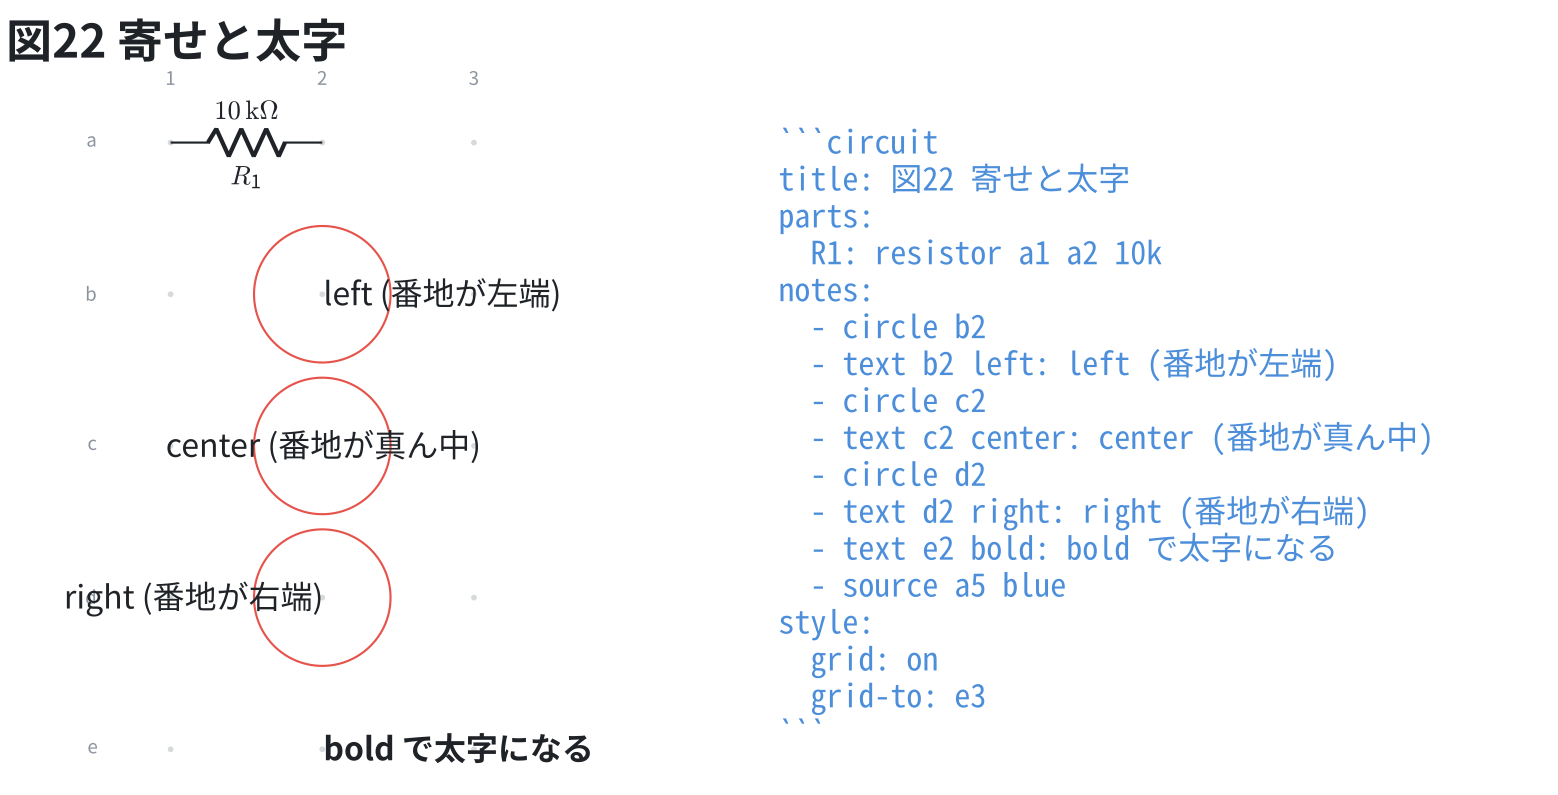
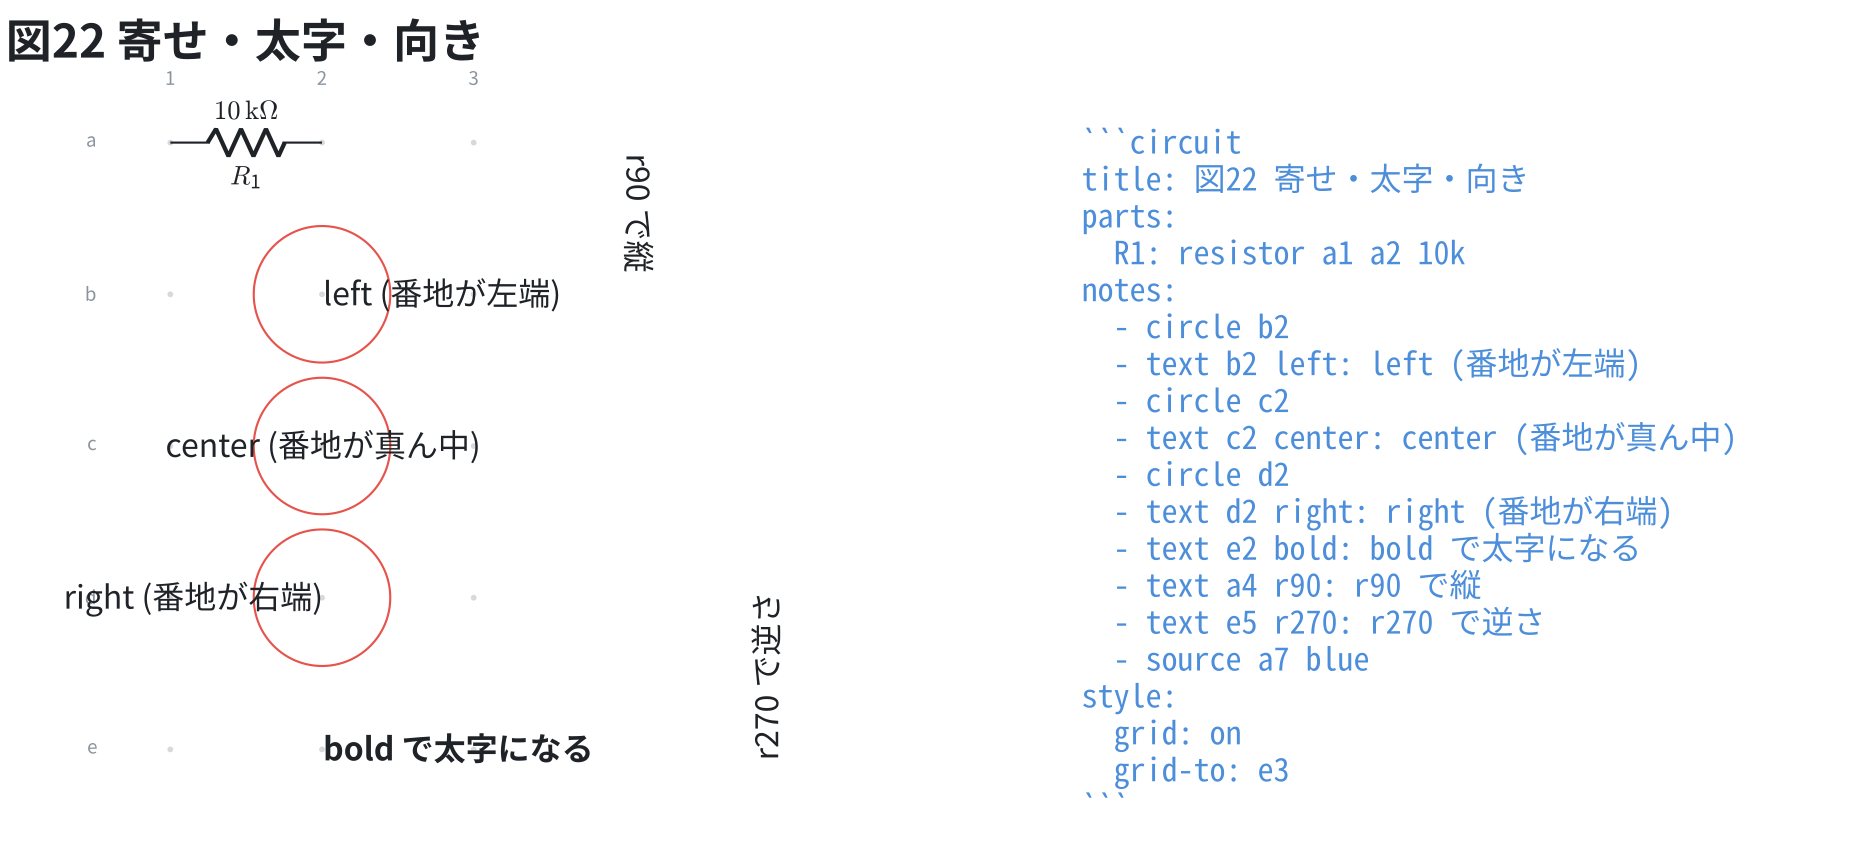
fix: 回した注釈で図が丸ごと出なくなるのを直す
`- text b1 r90` と書くと、circuit の図が 1 つも描かれなかった。

字を SVG に差し込むとき、TeX が目印に付けた `transform="translate(...)"` の
**隣にもう 1 つ** `transform="rotate(...)"` を書いていた。同じ属性が 2 つ並ぶと
XML として壊れるので、その注釈だけでなく図全体が出ない。同じ属性の中へ
継ぎ足すようにした。

続けて見つかった 2 つめ: 字の場所を取っておく `\path` が横幅のぶんしか
見ていなかったので、直したあとの字は縦に回ったまま画布の外へ出て切れていた。
`r90` / `r270` のときは縦に取る (寄せの向きも一緒に裏返す)。

文法リファレンスの図22 に向きを足した。回した字の入った図は 1 つも無く、
壊れていたことに図で気づけない状態だった。

🤖 Generated with [Claude Code](https://claude.com/claude-code)

diff --git a/packages/circuit-fence/src/core/tex/drawNotes.ts b/packages/circuit-fence/src/core/tex/drawNotes.ts
@@ -125,11 +125,23 @@ function drawTextNote(note: TextNote, pitch: number, target: TexTarget): string[
   // 取っておく。取らないと、図の縁に書いた注釈が SVG の外に出て切れる。
   // 寄せによって字の広がる向きが変わるので、取る場所もそちら側にする。
   const half = noteMargin(note.size);
-  const span = noteSpan(x, noteWidth(note.text, note.size), note.align);
-  return [
-    `\\path (${num(span.from)},${num(y - half)}) rectangle (${num(span.to)},${num(y + half)});`,
-    `\\node[${options.join(', ')}] ${at} {${NOTE_MARK_TEXT}};`,
-  ];
+  const width = noteWidth(note.text, note.size);
+  const mark = `\\node[${options.join(', ')}] ${at} {${NOTE_MARK_TEXT}};`;
+
+  // **回した字は伸びる向きも回る。** 横のぶんだけ取っておくと、縦に回した字が
+  // 画布の外へ出て切れる (実機で「注釈が出ない」と言われて見つけた)。
+  // 90 度と 270 度のときは縦に取り、横は行送りのぶんだけにする。
+  if (note.rotate === 90 || note.rotate === 270) {
+    // SVG の rotate は時計回りなので、90 度の字は画面の下へ伸びる。
+    // TeX の y は上向きだから、下は y が小さいほう — 寄せの向きを裏返して数える。
+    const along = note.rotate === 270 ? noteSpan(y, width, note.align) : noteSpan(-y, width, note.align);
+    const from = note.rotate === 270 ? along.from : -along.to;
+    const to = note.rotate === 270 ? along.to : -along.from;
+    return [`\\path (${num(x - half)},${num(from)}) rectangle (${num(x + half)},${num(to)});`, mark];
+  }
+
+  const span = noteSpan(x, width, note.align);
+  return [`\\path (${num(span.from)},${num(y - half)}) rectangle (${num(span.to)},${num(y + half)});`, mark];
 }
 
 /**

diff --git a/packages/circuit-fence/src/core/tex/drawNotes.test.ts b/packages/circuit-fence/src/core/tex/drawNotes.test.ts
@@ -299,6 +299,30 @@ describe('generateTex の注釈の見た目', () => {
     expect(notes[0]).toMatchObject({ align: 'right' });
   });
 
+  // **回した字は伸びる向きも回る。** 横のぶんだけ取っておくと、縦に回した字が
+  // 画布の外へ出て切れる (実機で「注釈が出ない」と言われて見つけた)。
+  test('turns the room it keeps with the text, so a sideways note is not cut off', () => {
+    const box = (words: string): readonly [number, number, number, number] => {
+      const tex = generate(...R, 'notes:', `  - text b3 ${words}: ここに注釈`).tex;
+      const found = /\\path \((-?[\d.]+),(-?[\d.]+)\) rectangle \((-?[\d.]+),(-?[\d.]+)\)/.exec(tex);
+      return [Number(found?.[1] ?? 0), Number(found?.[2] ?? 0), Number(found?.[3] ?? 0), Number(found?.[4] ?? 0)];
+    };
+
+    const [flatLeft, , flatRight] = box('left');
+    const flatWidth = flatRight - flatLeft;
+
+    // 90 度は画面の下へ伸びる。TeX の y は上向きなので、下は y が小さいほう。
+    const [downLeft, downBottom, downRight, downTop] = box('r90 left');
+    expect(downRight - downLeft).toBeLessThan(flatWidth);
+    expect(downTop - downBottom).toBeCloseTo(flatWidth, 2);
+    expect(downBottom).toBeLessThan(-4);
+
+    // 270 度は逆に上へ伸びる。
+    const [, upBottom, , upTop] = box('r270 left');
+    expect(upTop - upBottom).toBeCloseTo(flatWidth, 2);
+    expect(upTop).toBeGreaterThan(-4);
+  });
+
   // 目印は 1 文字で本物の字とは幅が違うので、寄せは TeX には決めさせない。
   // 場所だけは、字がどちらへ広がるかに合わせて取っておく。
   test('keeps the room on the side the text will grow to', () => {

diff --git a/packages/circuit-fence/src/core/render/noteText.ts b/packages/circuit-fence/src/core/render/noteText.ts
@@ -60,9 +60,16 @@ const withRotation = (attributes: string, rotate: number): string => {
   if (rotate === 0) return attributes;
   const x = /\bx="([-0-9.]+)"/.exec(attributes)?.[1];
   const y = /\by="([-0-9.]+)"/.exec(attributes)?.[1];
-  return x === undefined || y === undefined
-    ? attributes
-    : `${attributes} transform="rotate(${rotate} ${x} ${y})"`;
+  if (x === undefined || y === undefined) return attributes;
+
+  const turn = `rotate(${rotate} ${x} ${y})`;
+  // **目印にはもう `transform` が付いている** (TeX が置いた位置)。足すのではなく
+  // **同じ属性の中へ継ぎ足す** — 2 つ書くと XML として壊れ、図が丸ごと出なくなる
+  // (実機で「notes: text を表示しない」と言われて見つけた)。
+  const found = /\btransform="([^"]*)"/.exec(attributes);
+  return found === null
+    ? `${attributes} transform="${turn}"`
+    : attributes.replace(found[0], `transform="${found[1]} ${turn}"`);
 };
 
 /** エンジンが目印の色を掛けた器 (`<g>`)。中の字を差し替えたら、その色は用済み。 */

diff --git a/packages/circuit-fence/src/core/render/noteText.test.ts b/packages/circuit-fence/src/core/render/noteText.test.ts
@@ -145,3 +145,21 @@ describe('applyNotes の見た目', () => {
     expect(svg).toContain('transform="translate(1 2)"');
   });
 });
+
+describe('字を回す', () => {
+  test('adds the turn into the transform the marker already has, not beside it', () => {
+    // **2 つ書くと XML として壊れ、図が丸ごと出なくなる**
+    // (実機で「notes: text を表示しない」と言われて見つけた)。
+    const svg = applyNotes(SVG, [note('ここ', { rotate: 90 })]);
+    const attributes = /<text([^>]*)>/.exec(svg)?.[1] ?? '';
+
+    expect(attributes.match(/\btransform="/g)).toHaveLength(1);
+    expect(attributes).toContain('translate(1 2) rotate(90 ');
+  });
+
+  test('leaves the marker alone when there is no turn', () => {
+    const svg = applyNotes(SVG, [note('ここ')]);
+
+    expect(svg).not.toContain('rotate(');
+  });
+});

diff --git a/packages/circuit-fence/docs/out/01-syntax-22.tex b/packages/circuit-fence/docs/out/01-syntax-22.tex
@@ -29,25 +29,31 @@
 \node[anchor=west, inner sep=0, circuitnotemark, font=\large] at (2,-6) {X}; % line 10
 \path (2,-8.593) rectangle (5.937,-7.407); % line 11
 \node[anchor=west, inner sep=0, circuitnotemark, font=\large\bfseries] at (2,-8) {X}; % line 11
-\path (8,-8.382) rectangle (18.279,0.593); % line 12
-\node[anchor=west, inner sep=0, circuitnotemark, font=\large] at (8,0) {X}; % line 12
-\node[anchor=west, inner sep=0, circuitnotemark, font=\large] at (8,-0.487) {X}; % line 12
-\node[anchor=west, inner sep=0, circuitnotemark, font=\large] at (8,-0.974) {X}; % line 12
-\node[anchor=west, inner sep=0, circuitnotemark, font=\large] at (8,-1.46) {X}; % line 12
-\node[anchor=west, inner sep=0, circuitnotemark, font=\large] at (8,-1.947) {X}; % line 12
-\node[anchor=west, inner sep=0, circuitnotemark, font=\large] at (8,-2.434) {X}; % line 12
-\node[anchor=west, inner sep=0, circuitnotemark, font=\large] at (8,-2.921) {X}; % line 12
-\node[anchor=west, inner sep=0, circuitnotemark, font=\large] at (8,-3.408) {X}; % line 12
-\node[anchor=west, inner sep=0, circuitnotemark, font=\large] at (8,-3.895) {X}; % line 12
-\node[anchor=west, inner sep=0, circuitnotemark, font=\large] at (8,-4.381) {X}; % line 12
-\node[anchor=west, inner sep=0, circuitnotemark, font=\large] at (8,-4.868) {X}; % line 12
-\node[anchor=west, inner sep=0, circuitnotemark, font=\large] at (8,-5.355) {X}; % line 12
-\node[anchor=west, inner sep=0, circuitnotemark, font=\large] at (8,-5.842) {X}; % line 12
-\node[anchor=west, inner sep=0, circuitnotemark, font=\large] at (8,-6.329) {X}; % line 12
-\node[anchor=west, inner sep=0, circuitnotemark, font=\large] at (8,-6.816) {X}; % line 12
-\node[anchor=west, inner sep=0, circuitnotemark, font=\large] at (8,-7.302) {X}; % line 12
-\node[anchor=west, inner sep=0, circuitnotemark, font=\large] at (8,-7.789) {X}; % line 12
+\path (5.407,-1.905) rectangle (6.593,0); % line 12
+\node[anchor=west, inner sep=0, circuitnotemark, font=\large] at (6,0) {X}; % line 12
+\path (7.407,-8) rectangle (8.593,-5.396); % line 13
+\node[anchor=west, inner sep=0, circuitnotemark, font=\large] at (8,-8) {X}; % line 13
+\path (12,-9.356) rectangle (22.279,0.593); % line 14
+\node[anchor=west, inner sep=0, circuitnotemark, font=\large] at (12,0) {X}; % line 14
+\node[anchor=west, inner sep=0, circuitnotemark, font=\large] at (12,-0.487) {X}; % line 14
+\node[anchor=west, inner sep=0, circuitnotemark, font=\large] at (12,-0.974) {X}; % line 14
+\node[anchor=west, inner sep=0, circuitnotemark, font=\large] at (12,-1.46) {X}; % line 14
+\node[anchor=west, inner sep=0, circuitnotemark, font=\large] at (12,-1.947) {X}; % line 14
+\node[anchor=west, inner sep=0, circuitnotemark, font=\large] at (12,-2.434) {X}; % line 14
+\node[anchor=west, inner sep=0, circuitnotemark, font=\large] at (12,-2.921) {X}; % line 14
+\node[anchor=west, inner sep=0, circuitnotemark, font=\large] at (12,-3.408) {X}; % line 14
+\node[anchor=west, inner sep=0, circuitnotemark, font=\large] at (12,-3.895) {X}; % line 14
+\node[anchor=west, inner sep=0, circuitnotemark, font=\large] at (12,-4.381) {X}; % line 14
+\node[anchor=west, inner sep=0, circuitnotemark, font=\large] at (12,-4.868) {X}; % line 14
+\node[anchor=west, inner sep=0, circuitnotemark, font=\large] at (12,-5.355) {X}; % line 14
+\node[anchor=west, inner sep=0, circuitnotemark, font=\large] at (12,-5.842) {X}; % line 14
+\node[anchor=west, inner sep=0, circuitnotemark, font=\large] at (12,-6.329) {X}; % line 14
+\node[anchor=west, inner sep=0, circuitnotemark, font=\large] at (12,-6.816) {X}; % line 14
+\node[anchor=west, inner sep=0, circuitnotemark, font=\large] at (12,-7.302) {X}; % line 14
+\node[anchor=west, inner sep=0, circuitnotemark, font=\large] at (12,-7.789) {X}; % line 14
+\node[anchor=west, inner sep=0, circuitnotemark, font=\large] at (12,-8.276) {X}; % line 14
+\node[anchor=west, inner sep=0, circuitnotemark, font=\large] at (12,-8.763) {X}; % line 14
 \node[anchor=south west, inner sep=2pt, circuitnotemark, font=\LARGE\bfseries] (circuittitle) at (current bounding box.north west) {X};
-\path (circuittitle.south west) rectangle ++(5.578,0.853);
+\path (circuittitle.south west) rectangle ++(7.498,0.853);
 \end{circuitikz}
 \end{document}

diff --git a/packages/circuit-fence/docs/01-syntax.md b/packages/circuit-fence/docs/01-syntax.md
@@ -1231,9 +1231,10 @@ style:
 図に入る指定は必ず確かめたものにしてある)。
 
 寄せは、番地を字の左端・真ん中・右端のどこにするかを決める。
+**回した字は、伸びる向きも一緒に回る** — `r90` は下へ、`r270` は上へ伸びる。
 
 ```circuit
-title: 図22 寄せと太字
+title: 図22 寄せ・太字・向き
 parts:
   R1: resistor a1 a2 10k
 notes:
@@ -1244,13 +1245,15 @@ notes:
   - circle d2
   - text d2 right: right (番地が右端)
   - text e2 bold: bold で太字になる
-  - source a5 blue
+  - text a4 r90: r90 で縦
+  - text e5 r270: r270 で逆さ
+  - source a7 blue
 style:
   grid: on
   grid-to: e3
 ```
 
-![図22 寄せと太字](out/01-syntax-22.png)
+![図22 寄せ・太字・向き](out/01-syntax-22.png)
 
 同じ種類の言葉を 2 回書くと、後に書いたほうが黙って勝つのではなく
 行番号つきで返る。知らない言葉も、書ける言葉を添えて返る。

diff --git a/packages/circuit-fence/CHANGELOG.md b/packages/circuit-fence/CHANGELOG.md
@@ -98,6 +98,17 @@
   指定を渡した CI が、何も検証しないまま緑になっていた (perfboard にしか
   入っていなかった守りを 3 つに揃えた)。
 
+### Fixed
+
+- **回した注釈 (`- text b1 r90`) を書くと、図が丸ごと出なくなっていた。**
+  字を差し込むとき、TeX が置いた `transform` の**隣にもう 1 つ** `transform` を
+  書いていた。XML として壊れるので、その注釈だけでなく SVG 全体が描かれない。
+  同じ属性の中へ継ぎ足すようにした。
+
+- **回した注釈が図の縁で切れていた。** 字の場所を取っておくのに横幅のぶんしか
+  見ていなかったので、縦に回した字が画布の外へ出ていた。`r90` / `r270` の
+  ときは縦に取る。文法リファレンスの図22 が向きも見せるようになった。
+
 ## [0.5.0] - 2026-09-04
 
 ### Changed
